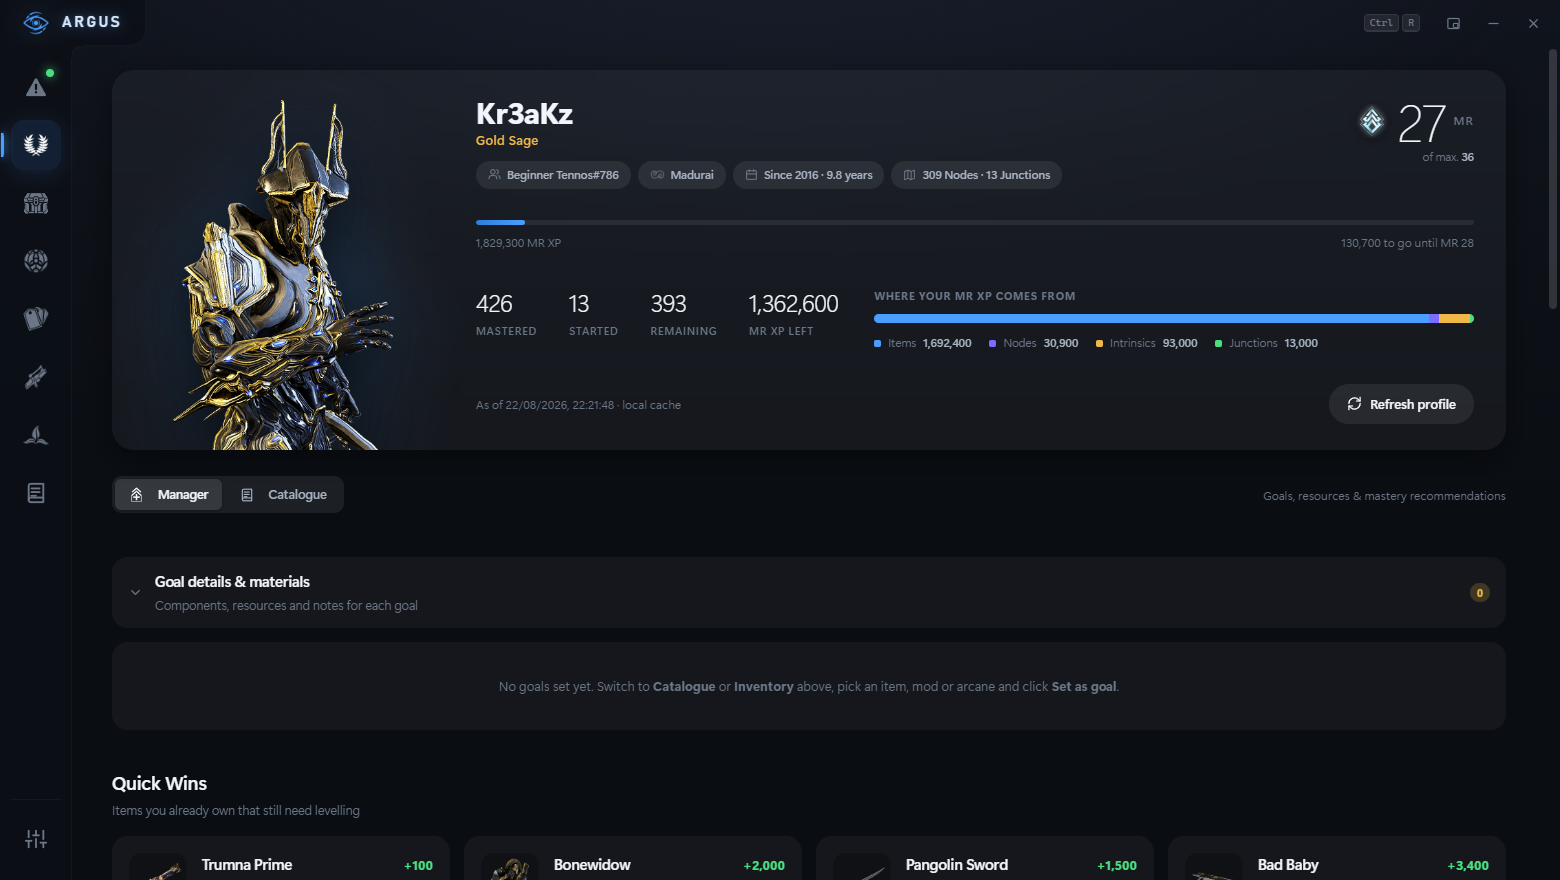
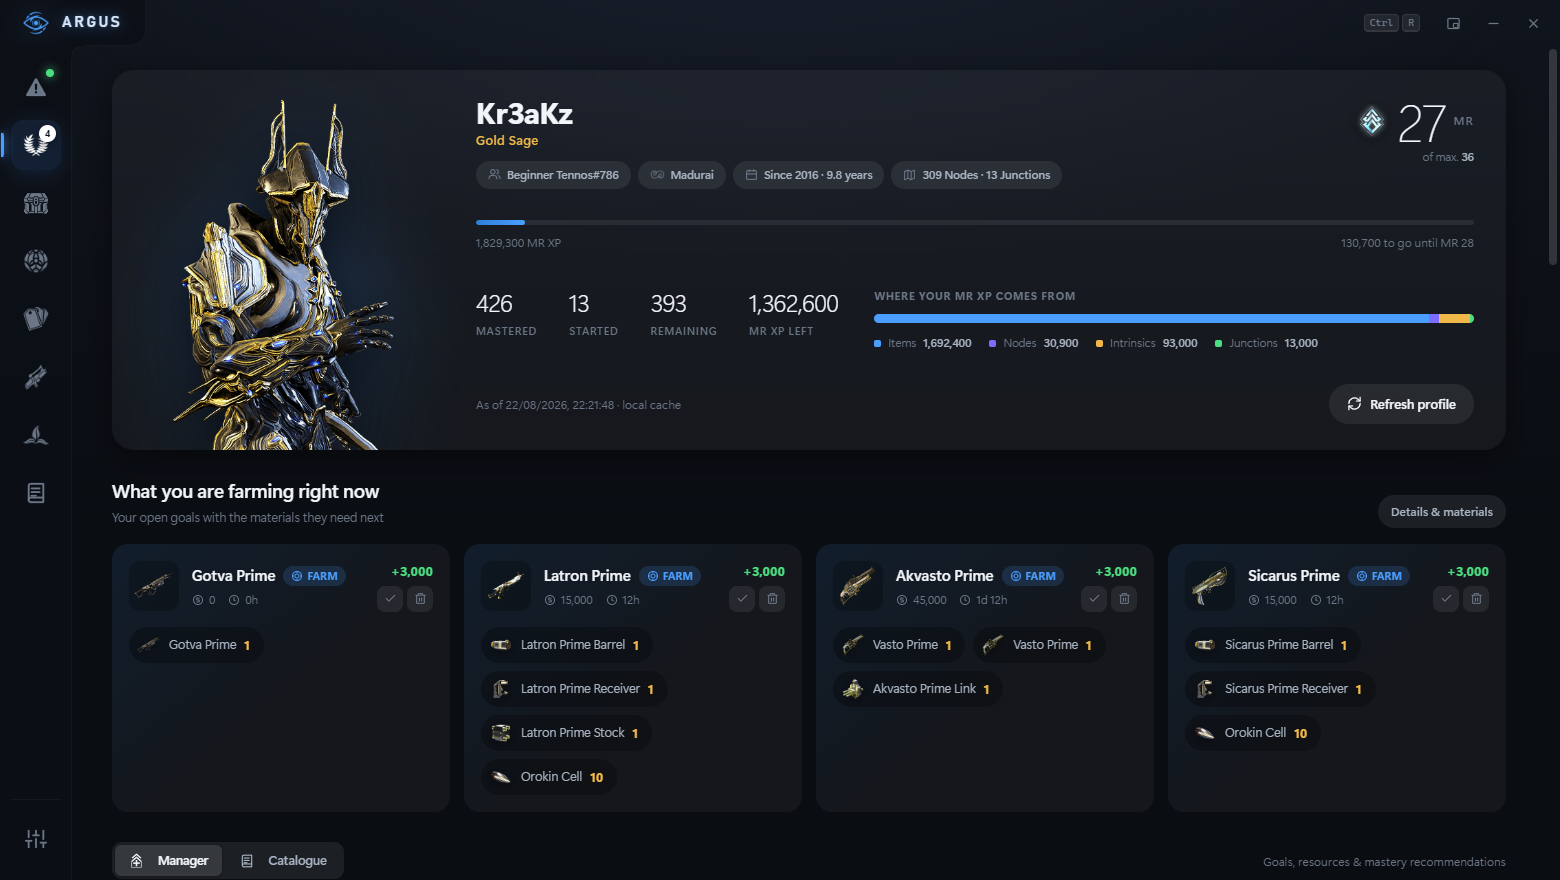
fix(oberflaeche): deutsche Zeichenketten in der englischen Oberflaeche
Aufgefallen beim Bildschirmfoto fuer den README: das Abzeichen an einer
Zielkarte trug "FARMEN", mitten in einer sonst englischen Oberflaeche -
und damit im ersten Bild, das ein Besucher des Repositorys sieht.

  Leveln                          -> Rank up
  Farmen                          -> Farm
  Gesamte Rohstoffe & Materialien -> Total resources & materials
  Benachrichtigungen deaktiviert  -> Notifications are off
  MR-XP                           -> MR XP   (so steht es an sechs
                                              anderen Stellen)

Die Regel steht in CONTRIBUTING.md: Kommentare Deutsch, Oberflaeche
Englisch. Die deutschen Woerter in den Kommentaren bleiben also, was sie
sind - nachgesehen wurde nur sichtbarer Text.

Das Bild des Mastery-Reiters zeigt jetzt ausserdem vier Waffen als Ziel,
sonst blieb der interessanteste Teil des Reiters leer. Aufgenommen gegen
eine Kopie der Daten, die echten Ziele sind unberuehrt.

diff --git a/src/renderer/app.js b/src/renderer/app.js
@@ -490,7 +490,7 @@ function renderActiveGoals(data) {
           <div class="agoal-title-row">
             <h3>${esc(g.name)}</h3>
             <span class="agoal-badge ${isLevel ? 'level' : 'farm'}">
-              ${isLevel ? Icon.bolt(12) + ' Leveln' : Icon.target(12) + ' Farmen'}
+              ${isLevel ? Icon.bolt(12) + ' Rank up' : Icon.target(12) + ' Farm'}
             </span>
           </div>
           <div class="agoal-meta">${subText}</div>
@@ -693,11 +693,11 @@ function renderGoals(data) {
           <div class="goal-title-row">
             <h3>${esc(g.name)}</h3>
             <span class="agoal-badge ${isLevel ? 'level' : 'farm'}">
-              ${isLevel ? Icon.bolt(12) + ' Leveln' : Icon.target(12) + ' Farmen'}
+              ${isLevel ? Icon.bolt(12) + ' Rank up' : Icon.target(12) + ' Farm'}
             </span>
           </div>
           <div class="goal-sub">
-            ${g.gain > 0 ? `<span class="gain">+${nf(g.gain)} MR-XP</span>` : (g.isUpgrade ? `<span class="gain gain-upgrade">${isArcane ? 'Arcane' : 'Mod'}</span>` : '')}
+            ${g.gain > 0 ? `<span class="gain">+${nf(g.gain)} MR XP</span>` : (g.isUpgrade ? `<span class="gain gain-upgrade">${isArcane ? 'Arcane' : 'Mod'}</span>` : '')}
             ${subText}
           </div>
         </div>
@@ -753,7 +753,7 @@ function renderGoals(data) {
           ` : ''}
 
           ${g.materials && g.materials.length > 0 ? `
-            <div class="goal-section-label" style="margin-top: ${g.components && g.components.length > 0 ? '14px' : '0'};">Gesamte Rohstoffe & Materialien</div>
+            <div class="goal-section-label" style="margin-top: ${g.components && g.components.length > 0 ? '14px' : '0'};">Total resources & materials</div>
             <div class="matgrid">
               ${g.materials.map(mt => `
                 <div class="mat">
@@ -2262,7 +2262,7 @@ async function openItemModal(uniqueName) {
 
     ${d.materials && d.materials.length ? `
       <div class="im-section">
-        <div class="im-section-title">Gesamte Rohstoffe & Materialien</div>
+        <div class="im-section-title">Total resources & materials</div>
         <div class="im-recipe-meta">
           <span>${Icon.coin(13)} <b>${nf(d.credits)}</b> Credits</span>
           <span>${Icon.clock(13)} <b>${esc(d.buildTime)}</b> Gesamtbauzeit</span>
@@ -5614,7 +5614,7 @@ function updateModalMatchesHint() {
   const matches = (worldStateCache.fissures || []).filter(f => isFissureAlertMatch(f, formCfg));
 
   if (!formCfg.enabled || !formCfg.fissures.enabled) {
-    hintEl.innerHTML = '<span style="color: var(--text-3);">Benachrichtigungen deaktiviert</span>';
+    hintEl.innerHTML = '<span style="color: var(--text-3);">Notifications are off</span>';
   } else if (matches.length) {
     const topMatches = matches.slice(0, 3).map(m => `<b>${esc(m.tier)} ${esc(m.missionType)}</b> (${esc(m.node)})`).join(', ');
     hintEl.innerHTML = `<span class="notif-hit-ic">${Icon.target(13)}</span><span><b>${matches.length} matching fissures</b> active now: ${topMatches}</span>`;

diff --git a/README.md b/README.md
@@ -25,7 +25,7 @@ screen opens, it puts a platinum price and ducat value under all four parts.
 **Windows only.** The overlay, the log reader and the inventory lookup all rely on
 Windows APIs.
 
-![The mastery dashboard](docs/img/01-mastery.png)
+![Open goals with the materials they still need](docs/img/01-mastery.png)
 
 ---
 
